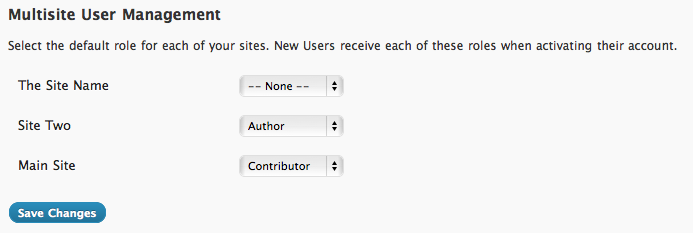
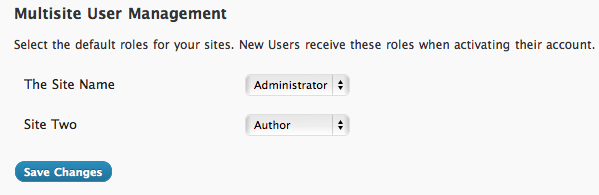
Updatd readme to explain plugin needs to be installed in mu-plugins directory and added message if plugin is activated in normal plugins folder.

diff --git a/multisite-user-management.php b/multisite-user-management.php
@@ -10,43 +10,55 @@ Network: true
 */
 
 // When a user activates their account, allocate them the default role set for each site
-function msum_activate_user( $user_id, $password, $meta ){
+function msum_activate_user( $user_id ){
+	
+	$dashboard_blog = get_site_option( 'dashboard_blog' );
 
 	foreach( get_blog_list( 0, 'all' ) as $key => $blog ) { 
+		if( $blog[ 'blog_id' ] == $dashboard_blog )
+			continue;
 		switch_to_blog( $blog[ 'blog_id' ] );
 
 		$role = get_option( 'msum_default_user_role' );
 
 		if( $role != 'none' )
-			add_user_to_blog( $blog[ 'blog_id' ], $user_id, get_option( 'msum_default_user_role', 'none' ) );
+			add_user_to_blog( $blog[ 'blog_id' ], $user_id, $role );
 
 		restore_current_blog();
 	}
 }
-add_action( 'wpmu_activate_user', 'msum_register_user', 10, 3 );
+add_action( 'wpmu_activate_user', 'msum_activate_user', 10, 1 );
 
 
 // Print Default Role selection boxes on the 'Site Admin | Options' page
 function msum_options(){ ?>
-	<h3><?php _e( 'Multisite User Management', 'msum' ); ?></h3>
-	<p><?php _e( 'Select the default role for each of your sites. New Users receive each of these roles when activating their account.', 'msum' ); ?></p>
-	<table class="form-table"><?php
-		foreach( get_blog_list( 0, 'all' ) as $key => $blog ) { 
-			switch_to_blog( $blog[ 'blog_id' ] );
-			?>
-			<tr valign="top">
-				<th scope="row"><?php echo get_bloginfo( 'name' ); //echo $blog_name; ?></th>
-				<td>
-					<select name="default_user_role[<?php echo $blog[ 'blog_id' ]; ?>]" id="default_user_role[<?php echo $blog[ 'blog_id' ]; ?>]">
-						<option value="none"><?php _e( '-- None --', 'msum' )?></option>
-						<?php wp_dropdown_roles( get_option( 'msum_default_user_role' ) ); ?>
-					</select>
-				</td> 
-			</tr>
-		<?php restore_current_blog();
-		} ?>
-	</table>
-<?php
+	<h3><?php _e( 'MultiSite User Management', 'msum' ); ?></h3>
+	<?php if( basename( dirname( __FILE__ ) ) == 'mu-plugins' ) { ?>
+		<p><?php _e( 'Select the default roles for your sites. New Users receive these roles when activating their account. The default role for the dashboard site is set above.', 'msum' ); ?></p>
+		<table class="form-table"><?php
+			$dashboard_blog = get_site_option( 'dashboard_blog' );
+			foreach( get_blog_list( 0, 'all' ) as $key => $blog ) { 
+				if( $blog[ 'blog_id' ] == $dashboard_blog )
+					continue;
+				switch_to_blog( $blog[ 'blog_id' ] );
+				?>
+				<tr valign="top">
+					<th scope="row"><?php echo get_bloginfo( 'name' ); //echo $blog_name; ?></th>
+					<td>
+						<select name="default_user_role[<?php echo $blog[ 'blog_id' ]; ?>]" id="default_user_role[<?php echo $blog[ 'blog_id' ]; ?>]">
+							<option value="none"><?php _e( '-- None --', 'msum' )?></option>
+							<?php wp_dropdown_roles( get_option( 'msum_default_user_role' ) ); ?>
+						</select>
+					</td> 
+				</tr>
+			<?php restore_current_blog();
+			} ?>
+		</table>
+	<?php } else { 	?>
+		<p><b>Whoops, it looks like <em><?php echo basename( __FILE__ ); ?></em> is not located in <em>/wp-content/mu-plugins/</em></b></p> 
+		<p>It is located in <em><?php echo dirname( __FILE__ ); ?></em>. Please move it to <em>/wp-content/mu-plugins/</em> for it to work correctly.</p>
+		<?php
+	}
 }
 add_action('wpmu_options', 'msum_options');
 
